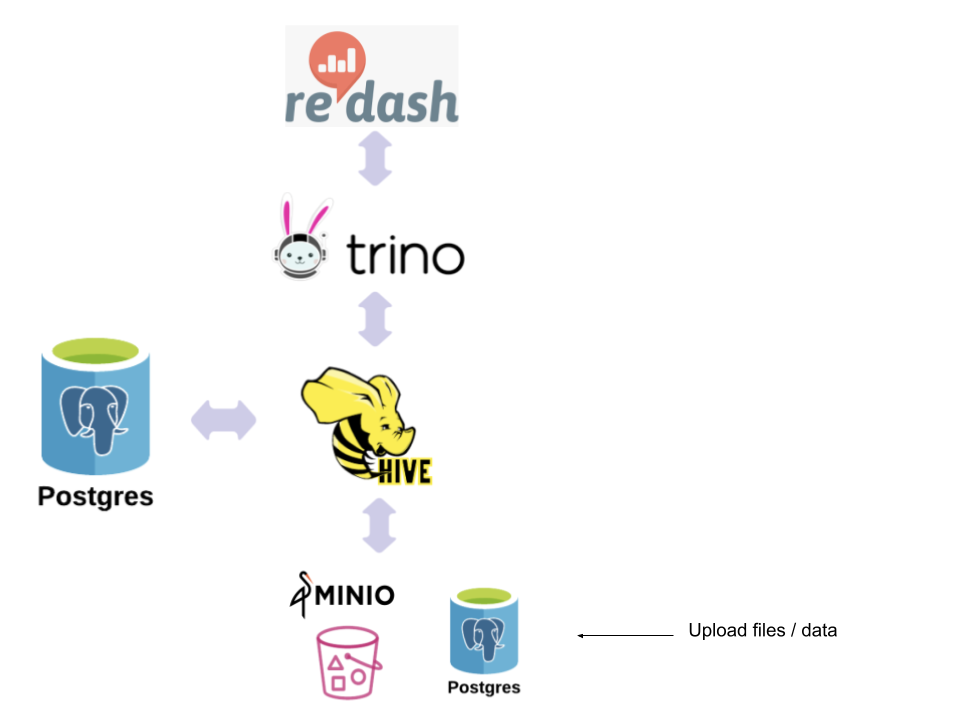
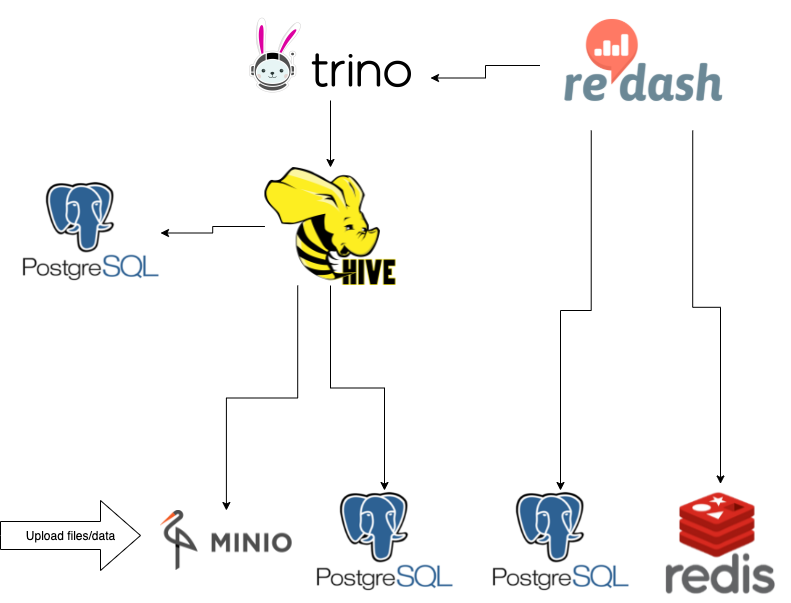
Added health check (redash-server) and updated README.md (#46)
* added health check for redash-server

* updated readme for redash

* updated readme

* updated documentation

* updated readme

* updated readme

* updated readme

* changed postgres-service inside redash_trino_cluster example

* typo

diff --git a/README.md b/README.md
@@ -37,7 +37,7 @@ All software is provided and run with docker. See the [Makefile](Makefile) for i
 ## Usage
 The following command will run Redash in the [example/redash_one_node](example/redash_one_node) folder.
 ```sh
-make up 
+make up-redash-one-node
 ```
 
 ### Verifying setup
@@ -69,6 +69,21 @@ module "redash" {
   host            = "127.0.0.1"
   port            = 5000
   container_image = "redash/redash:9.0.0-beta.b42121"
+
+  postgres_service = {
+    service_name  = module.redash-postgres.service_name
+    port          = module.redash-postgres.port
+    username      = module.redash-postgres.username
+    password      = module.redash-postgres.password
+    database_name = module.redash-postgres.database_name
+  }
+  postgres_vault_secret = {
+    use_vault_provider      = true
+    vault_kv_policy_name    = "kv-secret"
+    vault_kv_path           = "secret/dev/postgres"
+    vault_kv_field_username = "username"
+    vault_kv_field_password = "password"
+  }
 }
 
 module "redis" {
@@ -97,14 +112,12 @@ module "postgres" {
   container_image = "postgres:12-alpine"
   container_port  = 5432
   vault_secret = {
-    use_vault_provider      = false,
-    vault_kv_policy_name    = "",
-    vault_kv_path           = "",
-    vault_kv_field_username = "",
-    vault_kv_field_password = ""
+    use_vault_provider      = false
+    vault_kv_policy_name    = "kv-secret"
+    vault_kv_path           = "secret/dev/postgres"
+    vault_kv_field_username = "username"
+    vault_kv_field_password = "password"
   }
-  admin_user                      = "postgres"
-  admin_password                  = "postgres"
   database                        = "metastore"
   volume_destination              = "/var/lib/postgresql/data"
   use_host_volume                 = false
@@ -115,15 +128,19 @@ module "postgres" {
 |------|-------------|------|---------|:--------:|
 | nomad\_datacenters | Nomad data centers | list(string) | ["dc1"] | yes |
 | nomad\_namespace | [Enterprise] Nomad namespace | string | "default" | yes |
-| service | Redash service name | string | "redash" | yes |
+| service_name | Redash service name | string | "redash" | yes |
 | host | Redash host | string | "127.0.0.1" | yes |
 | port | Redash container port | number | 5000 | yes |
 | container\_image | Redash container image | string | "redash/redash:9.0.0-beta.b42121" | yes |
 | resource | Resource allocations for cpu and memory | obj(number, number)| { <br> cpu = 200, <br> memory = 1024 <br> } | no |
 | resource_proxy | Resource allocations for proxy | obj(number, number)| { <br> cpu = 200, <br> memory = 128 <br> } | no |
 | use\_canary | Uses canary deployment for Redash | bool | false | no |
-| redis\_service | Redis data-object contains service, port and host | obj(string, number, string) | { <br> service = "redis", <br> port = 6379, <br> host = "127.0.0.1" <br> } | no |
-| postgres\_service | Postgres data-object contains service, port and host | obj(string, number, string) | { <br> service = "postgres", <br> port = 5432, <br> host = "127.0.0.1" <br> } | no |
+| redash\_config\_properties | Custom redash configuration properties | list(string) | [<br> "python /app/manage.py database create_tables", <br> "python /app/manage.py users create_root admin@mail.com admin123 --password admin --org default", <br> "/usr/local/bin/gunicorn -b 0.0.0.0:5000 --name redash -w4 redash.wsgi:app --max-requests 1000 --max-requests-jitter 100" <br> ] | no |
+| container\_environment\_variables | Redash environment variables | list(string) | [" "] | no |
+| redis\_service | Redis data-object contains service_name and port. | obj(string, string) | { <br> service = "redash-redis", <br> port = 6379, <br> host = "127.0.0.1" <br> } | no |
+| postgres\_service | Postgres data-object contains service, port, username, password and database name | obj(string, number, string, string, string) | { <br> service = "redash-postgres", <br> port = 5432, <br> username = "username", <br> password = "password",  <br> database_name = "metastore" } | no |
+| postgres_vault_secret | Set of properties to be able to fetch Postgres secrets from vault | obj(bool, string, string, string, string) | { <br> use_vault_provider = false, <br> vault_kv_policy_name = "kv-secret", <br> vault_kv_path = "secret/data/dev/trino", <br> vault_kv_field_username = "username", <br> vault_kv_field_password = "username" <br> } | no |
+| datasource\_upstreams | List of upstream services (list of object with service_name, port) | list | [" "] | no |
 
 ## Outputs
 | Name | Description | Type |

diff --git a/example/redash_trino_cluster/README.md b/example/redash_trino_cluster/README.md
@@ -2,5 +2,49 @@
 
 This example deploys a Redash cluster connected to a [Trino in standalone mode](https://github.com/Skatteetaten/terraform-nomad-trino/tree/master/example/trino_standalone) as a datasource.
 
+## Prerequisites
+### Docker image
+Image used in this example named `gitlab-container-registry.minerva.loc/datainn/redash-rabbit-edition:latest` 
+is customized to support Trino. At the moment (date: 26.05.21) there does not exist any offical and stabile version 
+of [Redash image](https://hub.docker.com/r/redash/redash/tags?page=1&ordering=last_updated) supporting Trino. 
+
+
+### Vault provider
+If you are running the example with Vault provider, Vault K/V store should contain all required credentials and policies.
+In this example, all required actions are automated by Ansible. See the following files for details.
+
+- Required policy [01-create-vault-policy-to-read-secrets.yml](../../dev/vagrant/bootstrap/vault/post/01-create_vault_policy_to_read_secrets.yml)
+- Required credentials [00_generate_secrets_vault.yml](../../dev/ansible/00_generate_secrets_vault.yml)
+
+### Datasource
+Datasources in Redash can be added automatcally by customizing the configuration.
+Below is an example of how Trino as a datasource can be configured (from [redash_trino_cluster/main.tf](/main.tf)):
+```terraform
+# Customized redash configuration 
+redash_config_properties = [
+"python /app/manage.py ds new \"trino\" --type \"trino\" {\"catalog\":\"hive\", \"host\":\"127.0.0.1\", \"port\":\"8080\", \"schema\":\"default\", \"username\":\"trino\"  }"
+]
+
+# Datasource upstream. Trino must exists as a service in the cluster.
+datasource_upstreams = [{ service_name = module.trino.trino_service_name, port = 8080 }]
+```
+
+
+
+## Modules in use
+| Modules       | version       |
+| ------------- |:-------------:|
+| [terraform-nomad-redis](https://github.com/skatteetaten/terraform-nomad-redis) | 0.1.0 |
+| [terraform-nomad-postgres](https://github.com/skatteetaten/terraform-nomad-postgres) | 0.4.1 |
+| [terraform-nomad-trino](https://github.com/skatteetaten/terraform-nomad-trino) | 0.4.0 |
+| [terraform-nomad-minio](https://github.com/skatteetaten/terraform-nomad-minio) | 0.4.0 |
+| [terraform-nomad-hive](https://github.com/skatteetaten/terraform-nomad-hive) | 0.4.0 |
+
+## Services
 ![img](../resources/images/redash_trino_cluster.png)
+
+
+Source code: https://github.com/getredash/redash
+
+
 

diff --git a/CHANGELOG.md b/CHANGELOG.md
@@ -2,6 +2,8 @@
 
 ## [0.1.0 UNRELEASED]
 ### Updated
+- Documentation for example/redash_trino_cluster #40
+- Documentation for example/redash_one_node #38
 - Bump vagrant-hashistack ">= 0.10, < 0.11". #32
 - Removed unused files/folders and updated the folder structure. #32
 - Updated example/redash_one_node with upstream to postgres and redis, and dynamical variables. #34
@@ -10,7 +12,8 @@
 - Added a new example/redash_trino_cluster #39
 - Added variable `redash_config_properties` for custom redash properties. This variable makes it possible to create a new data source dynamically. #39
 - Integration with Vault #35
-- Random env-vars
+- Random env-vars #43
+- Added health checks for redash-server #36
 
 
 ## [0.0.3]

diff --git a/example/README.md b/example/README.md
@@ -1,5 +1,10 @@
-# This is a terraform module example
-The current directory contains terraform related files that use the module in `../`. See [template_example](../template_example/example/).
+# Terraform module example
+All examples have their own directories, with a `main.tf` that references one or more modules.
+
+| Examples       |
+| :------------- |
+| [Redash one node](redash_one_node) |
+| [Redash connected to Trino as a datasource](redash_trino_cluster) |
 
 ## References
 - [Creating Modules - official terraform documentation](https://www.terraform.io/docs/modules/index.html)

diff --git a/example/redash_one_node/README.md b/example/redash_one_node/README.md
@@ -1,3 +1,14 @@
 # Redash One Node
 
 This example sets up a single instance of Redash.
+
+## Modules in use
+| Modules       | version       |
+| ------------- |:-------------:|
+| [terraform-nomad-redis](https://github.com/skatteetaten/terraform-nomad-redis) | 0.1.0 |
+| [terraform-nomad-postgres](https://github.com/skatteetaten/terraform-nomad-postgres) | 0.4.1 |
+
+## Services
+![img](../resources/images/redash_one_node.png)
+
+Source code: https://github.com/getredash/redash
